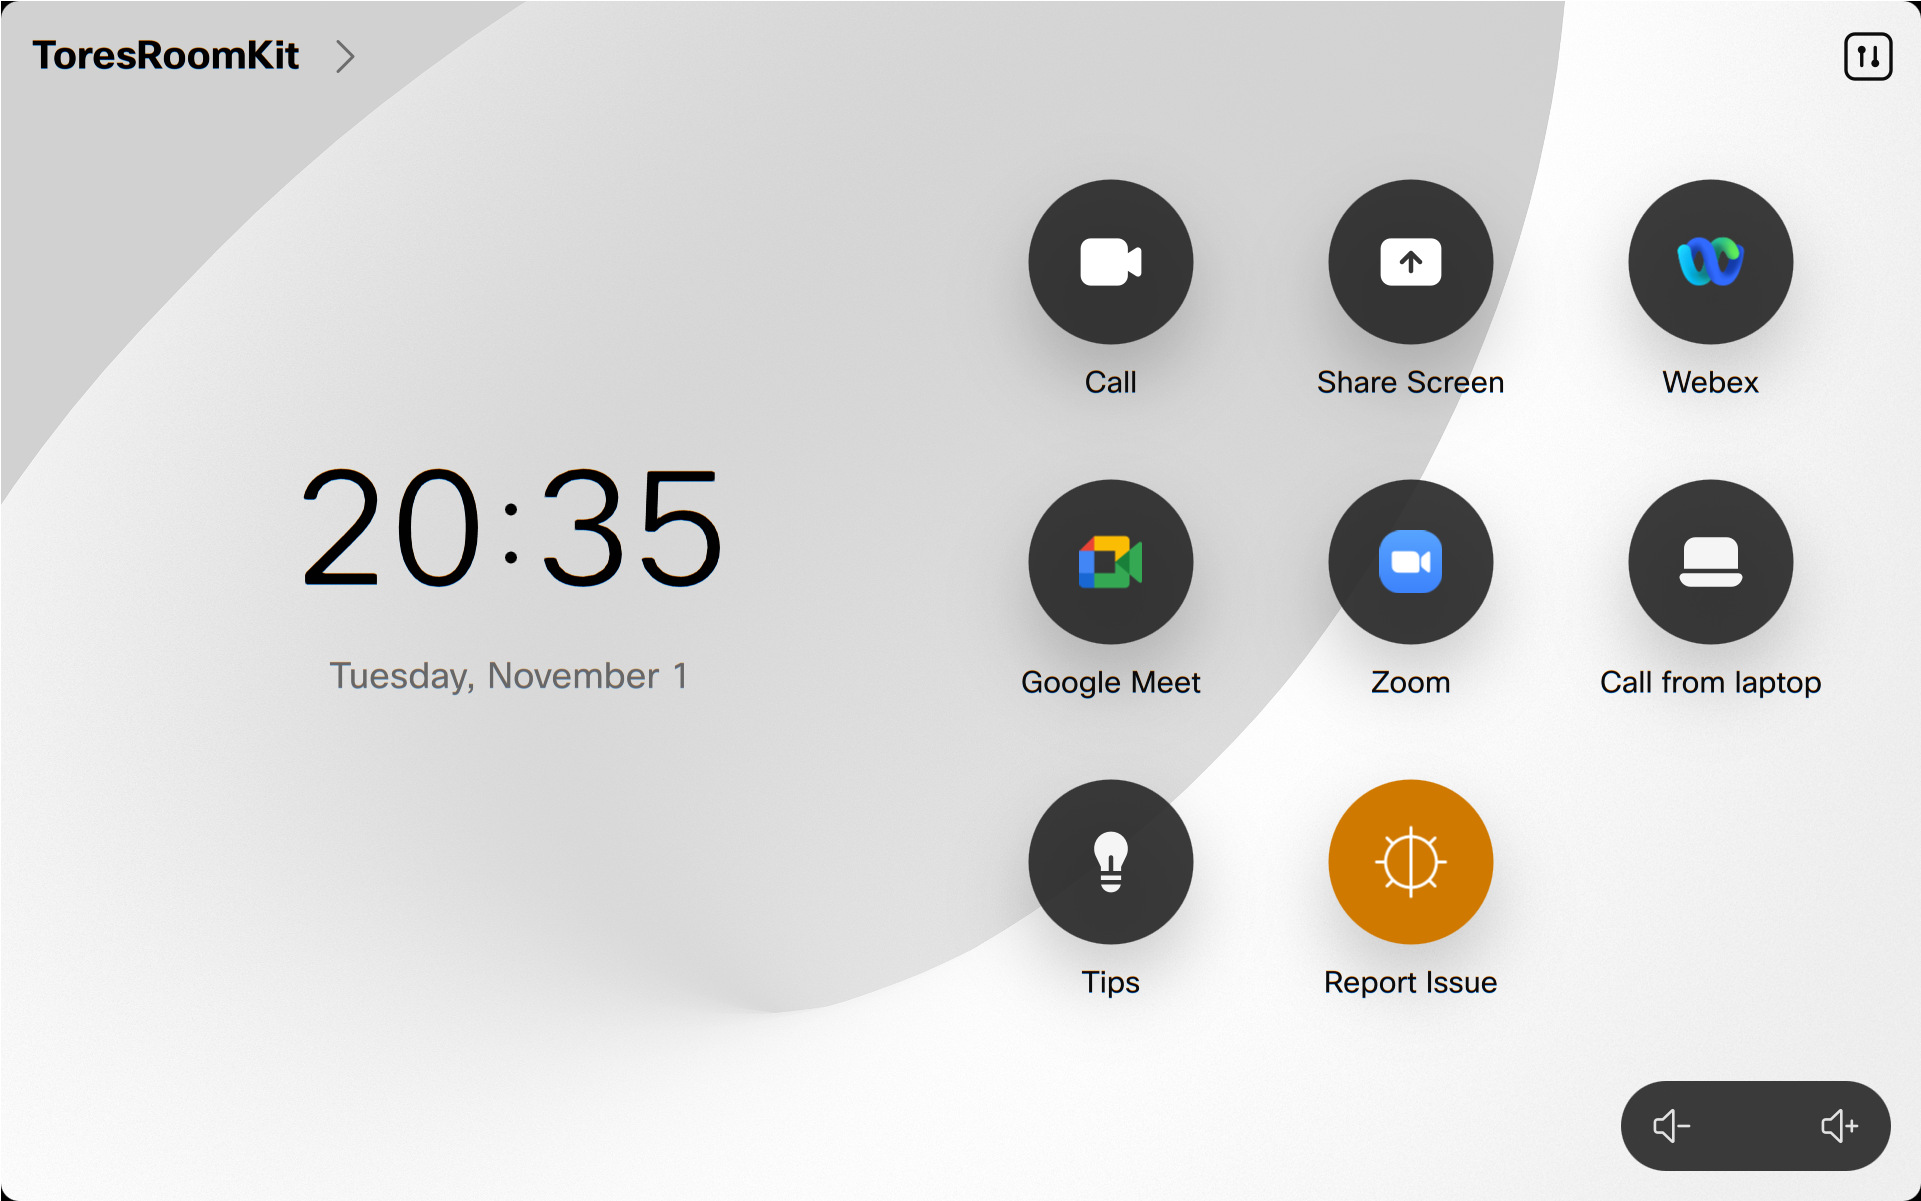
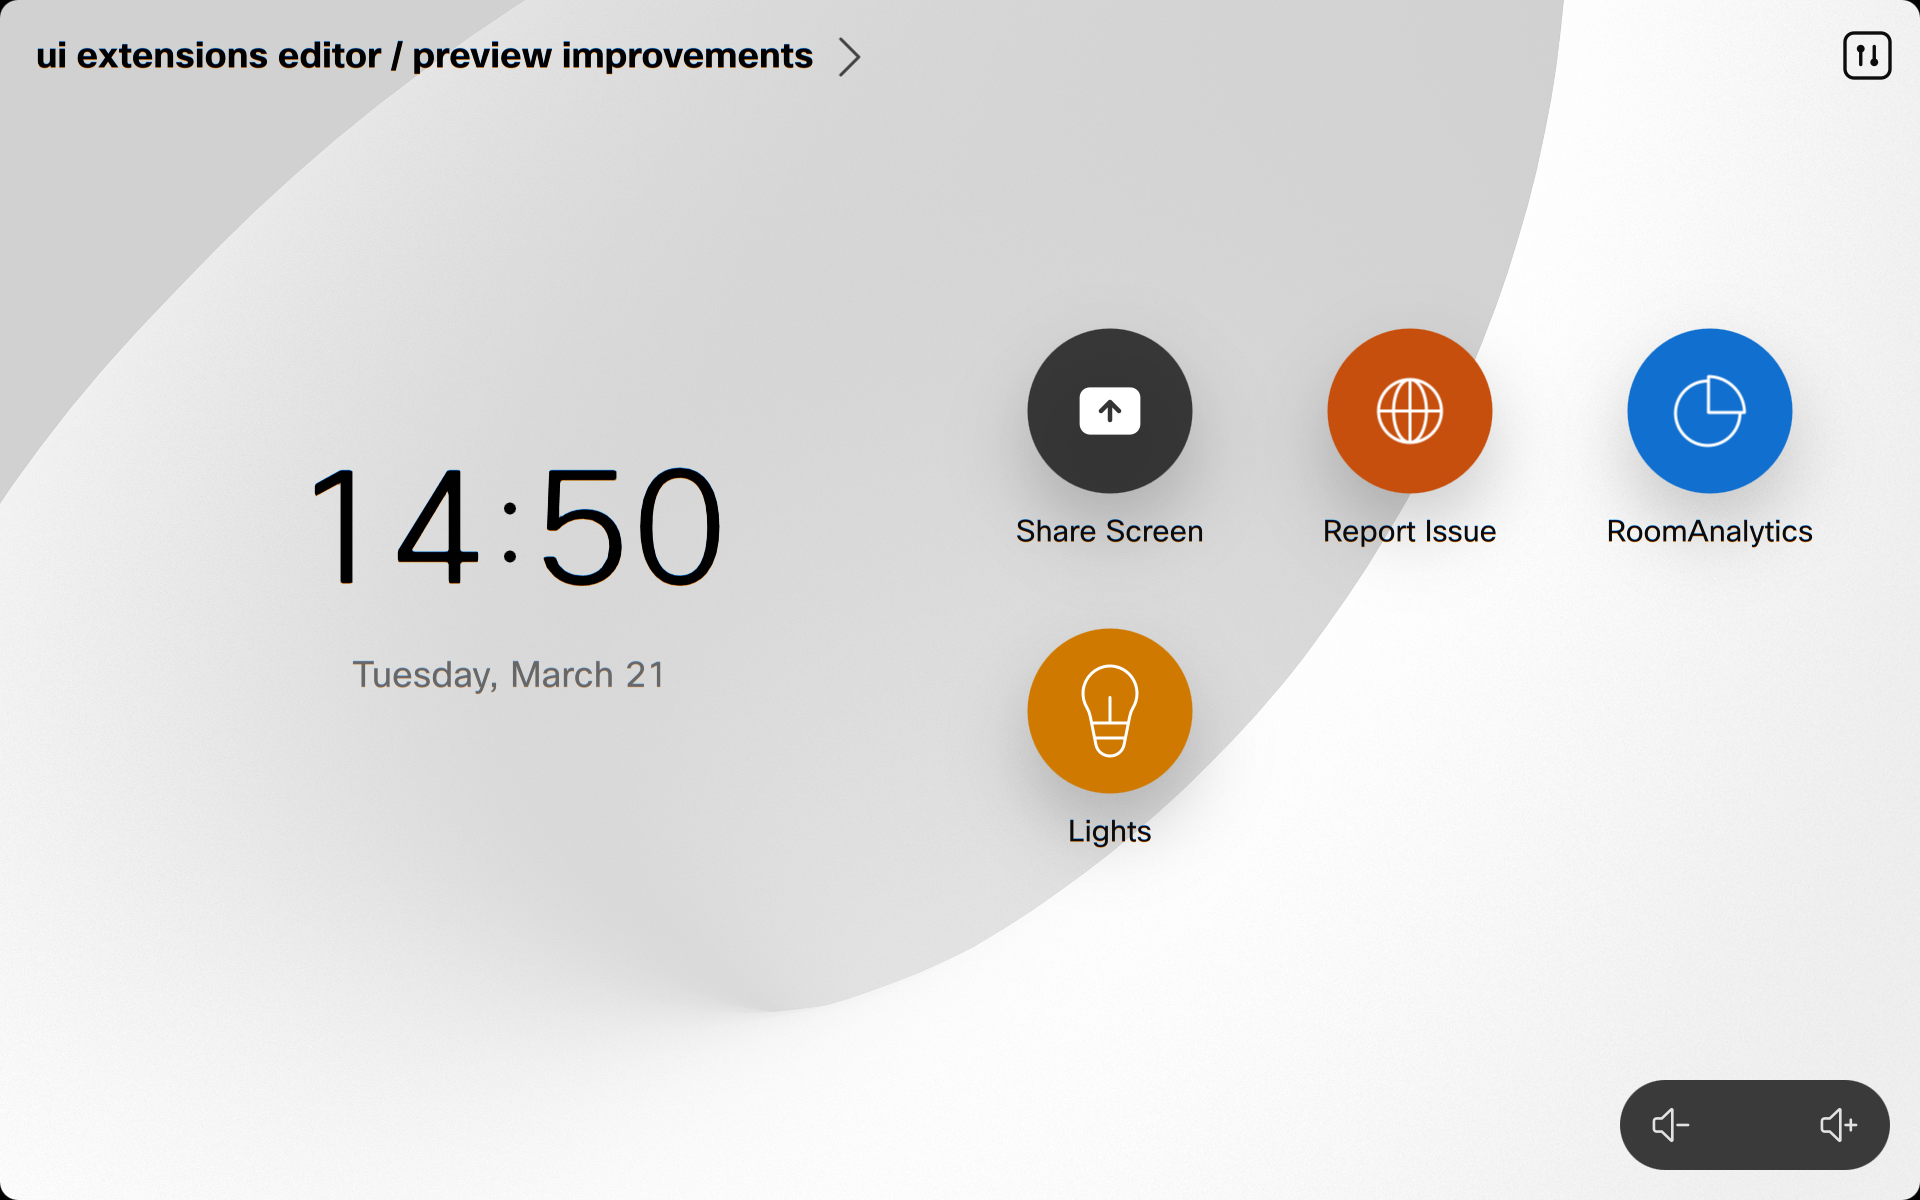
update screenshots with cisco profile

diff --git a/report-issue/README.md b/report-issue/README.md
@@ -22,6 +22,13 @@ There are already many examples of macros and UI extensions for reporting issues
 
 <img src="./screenshots/04-qrcode.png" height="300" />
 
+## Theming
+
+Since the dialog is a web view, it can be tweaked to look whatever way you choose, for example matching your company profile.
+
+In the macro, set `const theme='cisco2'` to get the following version instead:
+
+<img src="./screenshots/branded-version.png" height="300" />
 
 ## Requirements
 
